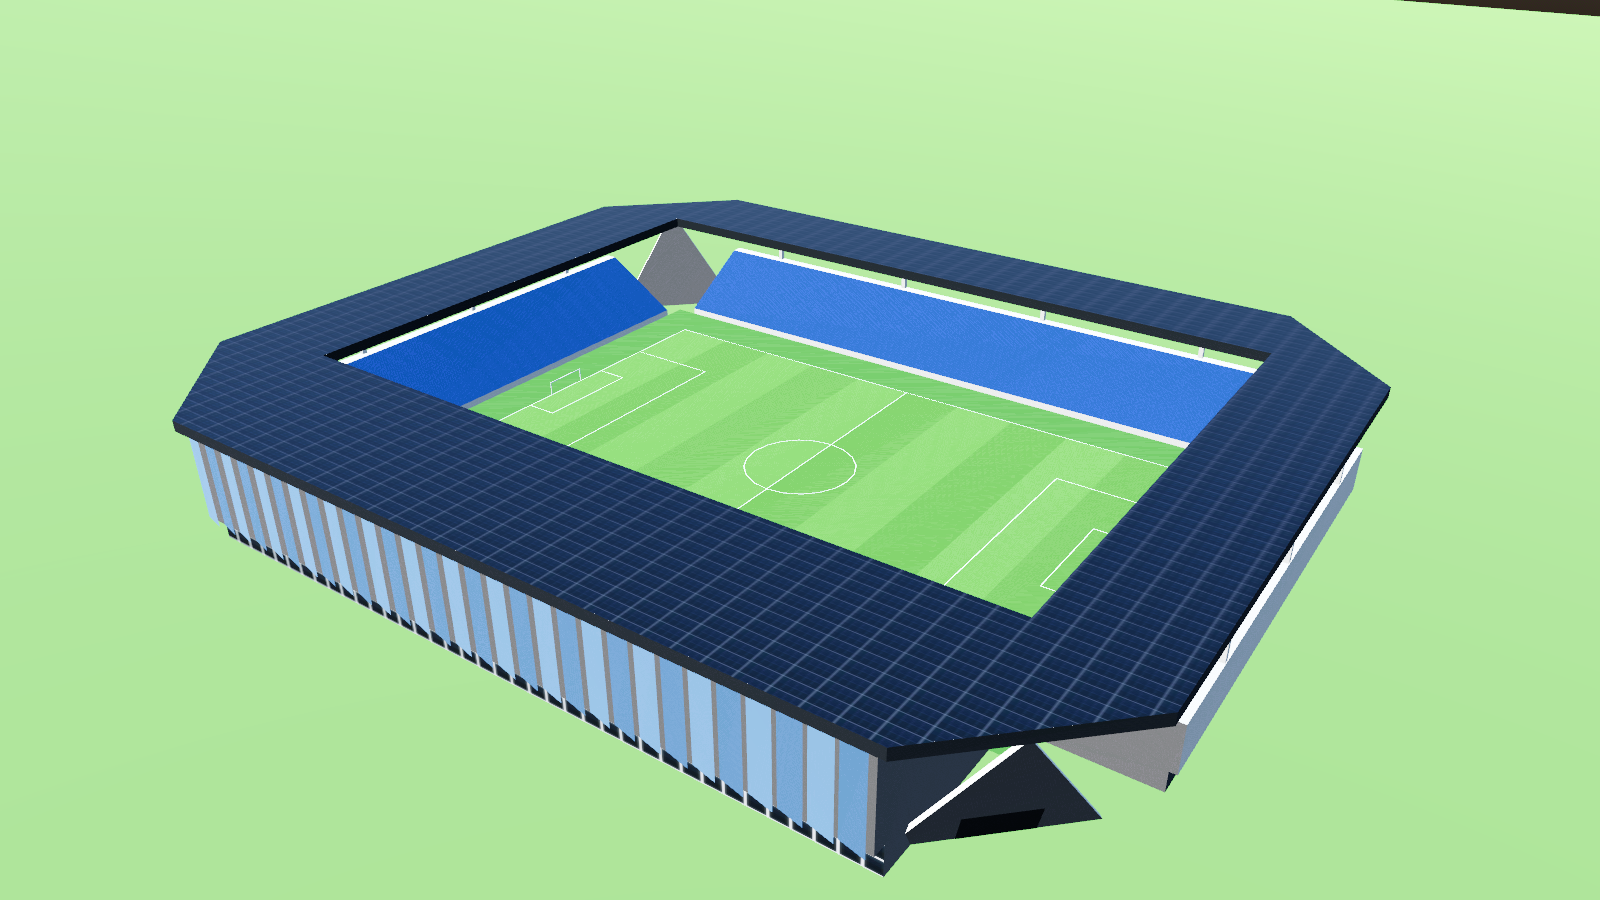
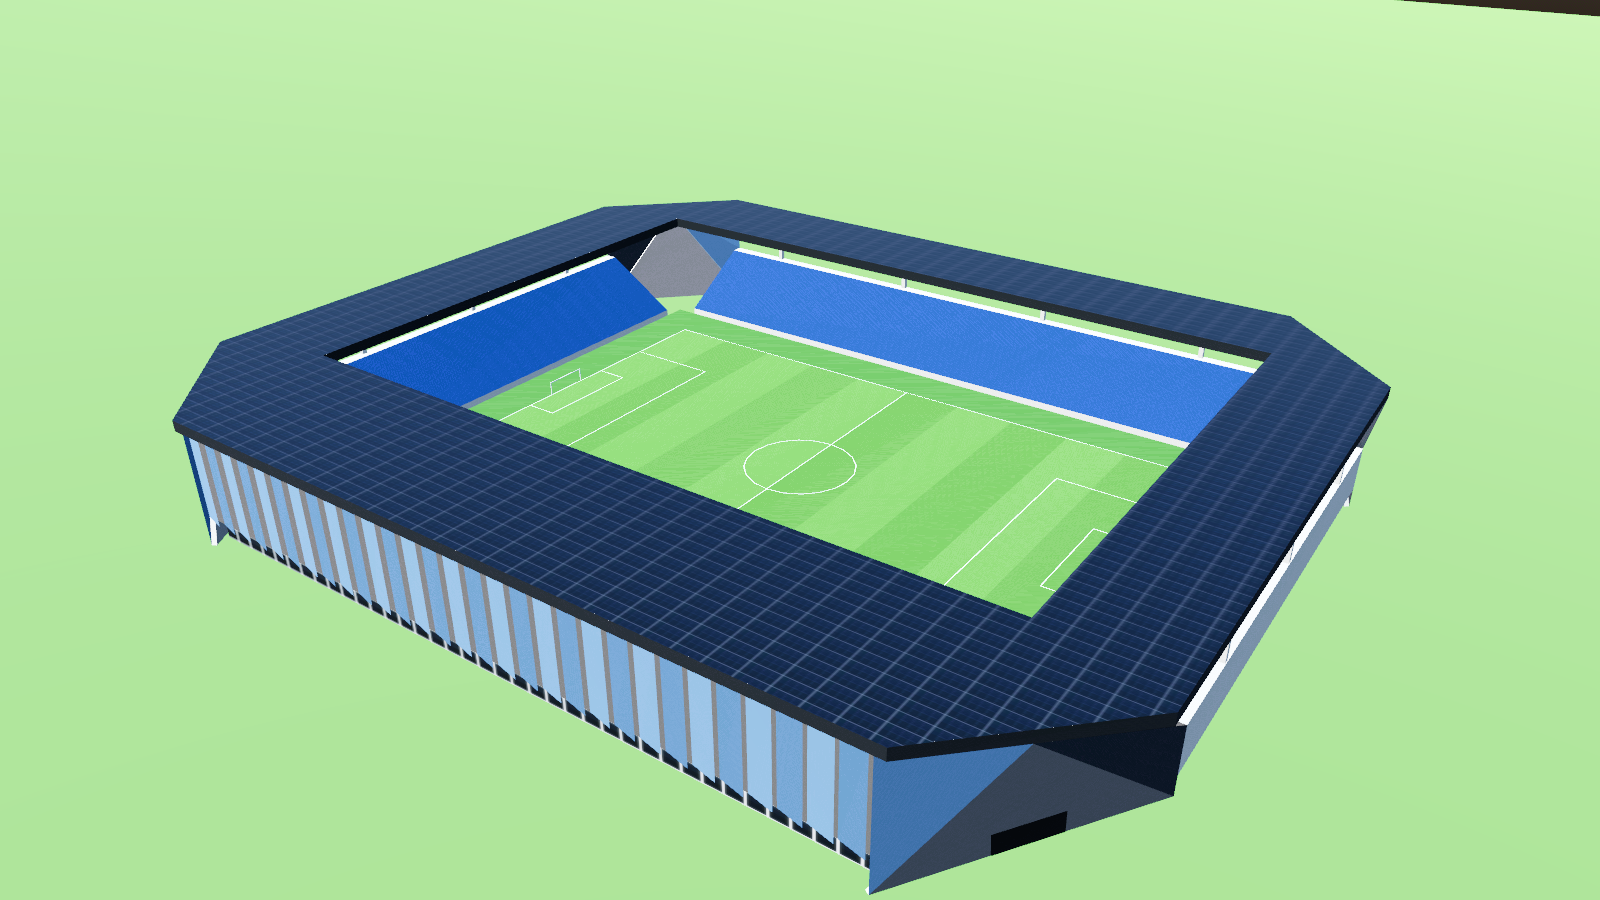
Tuilière : le voile d'angle ferme le pan coupé
Base du voile du bout de la façade au coin de la tribune latérale, sommet au
milieu du pan coupé du toit, triangles restants fermés (vitrage, mur sombre).

diff --git a/tools/blender/batiments/stade_tuiliere.py b/tools/blender/batiments/stade_tuiliere.py
@@ -33,6 +33,7 @@ HX, HY = 56.5, 38.0          # bord de la pelouse (4 m de dégagement)
 
 BETON = "#d6d2c9"
 BETON_SOMBRE = "#6e6d69"
+VOILE = "#8f8d88"            # béton des grands voiles d'angle
 SOUBASSEMENT = "#3c4046"
 SIEGES = "#2459a8"
 SIEGES_OMBRE = "#1d4a8c"
@@ -133,45 +134,50 @@ def toit(b):
                             BANDEAU, (sens * mx, sens * (my + 5), 0))
 
 
-def voile_biais(b, a, c, epaisseur=0.8, recul=7.0, entree=(9.0, 4.2)):
-    """Angle coupé en biais : grand voile triangulaire en béton dans le plan du
-    pan coupé (a -> c, au bord du toit), base au sol en retrait, sommet sous le
-    toit, donc incliné vers l'extérieur. Passage des spectateurs en bas."""
-    ax, ay = a
-    cx, cy = c
-    mx, my = (ax + cx) / 2, (ay + cy) / 2
-    # Normale horizontale vers l'intérieur (vers le centre du stade).
-    tx, ty = cx - ax, cy - ay
+def voile_biais(b, a, c, base_a, base_c, haut_facade_a, haut_lateral_c,
+                epaisseur=0.8, entree=(9.0, 4.2)):
+    """Angle coupé en biais (photo de Gaël) : un grand voile triangulaire en
+    béton ferme l'angle. Sa base va, au sol, du bout de la façade principale
+    (base_a) au coin de la tribune latérale (base_c) ; son sommet touche le
+    milieu du pan coupé du toit (a -> c), donc il penche vers l'extérieur.
+    Les triangles restants entre le voile et le toit sont fermés : vitrage
+    côté façade, mur sombre côté tribune. Entrée des spectateurs en bas."""
+    mx, my = (a[0] + c[0]) / 2, (a[1] + c[1]) / 2
+    sommet = (mx, my, TOIT_BAS)
+    tx, ty = base_c[0] - base_a[0], base_c[1] - base_a[1]
     lg = math.hypot(tx, ty)
     tx, ty = tx / lg, ty / lg
-    nx, ny = -ty, tx
+    nx, ny = -ty, tx                      # normale horizontale vers l'intérieur
     if nx * -mx + ny * -my < 0:
         nx, ny = -nx, -ny
-    retrait = 0.08 * lg   # la base est un peu plus courte que le haut
-    base_a = (ax + tx * retrait + nx * recul, ay + ty * retrait + ny * recul, 0.0)
-    base_c = (cx - tx * retrait + nx * recul, cy - ty * retrait + ny * recul, 0.0)
-    sommet = (mx + nx * 0.6, my + ny * 0.6, TOIT_BAS)
-    # Normale de la face avant : vers le dehors et un peu vers le bas.
-    dehors = (-nx, -ny, -recul / TOIT_BAS)
+    ba = (base_a[0], base_a[1], 0.0)
+    bc = (base_c[0], base_c[1], 0.0)
+    dehors = (-nx, -ny, -0.3)
 
     def decale(p, k):
         return (p[0] + nx * epaisseur * k, p[1] + ny * epaisseur * k, p[2])
 
-    b.face_orientee([base_a, base_c, sommet], BETON_SOMBRE, dehors)
-    b.face_orientee([decale(base_a, 1), decale(base_c, 1), decale(sommet, 1)], BETON_SOMBRE,
+    b.face_orientee([ba, bc, sommet], VOILE, dehors)
+    b.face_orientee([decale(ba, 1), decale(bc, 1), decale(sommet, 1)], VOILE,
                     tuple(-v for v in dehors))
-    for p, q in ((base_a, sommet), (sommet, base_c)):
-        vx, vy = (p[0] + q[0]) / 2 - mx, (p[1] + q[1]) / 2 - my
-        b.face_orientee([p, q, decale(q, 1), decale(p, 1)], BETON, (vx, vy, 0.3))
+    for p, q in ((ba, sommet), (sommet, bc)):
+        vx, vy = (p[0] + q[0]) / 2 - (ba[0] + bc[0]) / 2, (p[1] + q[1]) / 2 - (ba[1] + bc[1]) / 2
+        b.face_orientee([p, q, decale(q, 1), decale(p, 1)], BETON, (vx - nx, vy - ny, 0.3))
+    # Fermetures entre le voile et le toit.
+    a_haut = (a[0], a[1], TOIT_BAS)
+    c_haut = (c[0], c[1], TOIT_BAS)
+    for tri in ([haut_facade_a, a_haut, sommet], [haut_facade_a, sommet, ba]):
+        b.face_orientee(tri, VERRE_B, (-nx, -ny, 0))
+    for tri in ([haut_lateral_c, sommet, c_haut], [haut_lateral_c, bc, sommet]):
+        b.face_orientee(tri, SOUBASSEMENT, (-nx, -ny, 0))
     # Entrée : ouverture sombre en bas, au milieu du voile.
     largeur, hauteur = entree
-    t = hauteur / TOIT_BAS
-    centre = (base_a[0] + base_c[0]) / 2, (base_a[1] + base_c[1]) / 2
+    cx0, cy0 = (ba[0] + bc[0]) / 2, (ba[1] + bc[1]) / 2
     pts = []
     for du, z in ((-1, 0.0), (1, 0.0), (1, hauteur), (-1, hauteur)):
         k = z / TOIT_BAS
-        px = centre[0] + (sommet[0] - centre[0]) * k + tx * du * largeur / 2 - nx * 0.05
-        py = centre[1] + (sommet[1] - centre[1]) * k + ty * du * largeur / 2 - ny * 0.05
+        px = cx0 + (sommet[0] - cx0) * k + tx * du * largeur / 2 - nx * 0.05
+        py = cy0 + (sommet[1] - cy0) * k + ty * du * largeur / 2 - ny * 0.05
         pts.append((px, py, z))
     b.face_orientee(pts, "#25272b", dehors)
 
@@ -238,8 +244,14 @@ def construit(b):
     toit(b)
     # Angles coupés en biais, chacun avec son grand voile de béton incliné.
     for sx in (-1, 1):
-        voile_biais(b, (sx * (XE - BISEAU), YS), (sx * XE, YS + BISEAU))
-        voile_biais(b, (sx * (XE - BISEAU), YN), (sx * XE, YN - BISEAU))
+        # Côté tribune principale (-Y) : façade jusqu'à d = 30,8, tribune
+        # latérale jusqu'à d = 20 (x = ±76,5), arrêtée à y = -HY.
+        voile_biais(b, (sx * (XE - BISEAU), YS), (sx * XE, YS + BISEAU),
+                    (sx * HX, -(HY + 30.8)), (sx * (HX + 20), -HY),
+                    (sx * HX, -(HY + 30.8), TOIT_BAS), (sx * (HX + 20), -HY, 10.0))
+        voile_biais(b, (sx * (XE - BISEAU), YN), (sx * XE, YN - BISEAU),
+                    (sx * HX, HY + 20), (sx * (HX + 20), HY),
+                    (sx * HX, HY + 20, 10.0), (sx * (HX + 20), HY, 10.0))
 
 
 def main():

diff --git a/docs/modeles-blender.md b/docs/modeles-blender.md
@@ -49,7 +49,7 @@ Un bâtiment particulier a son propre script dans `tools/blender/batiments/`, qu
 | Script | Bâtiment | Triangles |
 | --- | --- | --- |
 | `maison_frank.py` | Villa moderniste d'après une maison de Josef Frank (années 1930) : bow-window, tours cylindriques, terrasses | 558 |
-| `stade_tuiliere.py` | Stade de la Tuilière, Lausanne (2020) : 12 544 places, terrain 105 × 68 m, tribune principale à façade de verre à facettes, trois tribunes ouvertes, toit en porte-à-faux couvert de panneaux solaires, angles coupés en biais avec un grand voile de béton incliné et l'entrée des spectateurs. Sources en tête du script. | 486 |
+| `stade_tuiliere.py` | Stade de la Tuilière, Lausanne (2020) : 12 544 places, terrain 105 × 68 m, tribune principale à façade de verre à facettes, trois tribunes ouvertes, toit en porte-à-faux couvert de panneaux solaires, angles coupés en biais avec un grand voile de béton incliné et l'entrée des spectateurs. Sources en tête du script. | 502 |
 
 ![Maison Frank et maison test dans la vitrine](apercu-glb-maison_frank.png)
 
@@ -76,7 +76,7 @@ Un stade par club de la saison 2026-2027 (le Letzigrund est partagé par le FC Z
 | `stade_saint_gall` | Kybunpark, Saint-Gall | FC Saint-Gall | 19 568 | 1 206 |
 | `stade_lucerne` | Swissporarena, Lucerne | FC Lucerne | 17 000 | 1 222 |
 | `stade_sion` | Tourbillon, Sion | FC Sion | 14 850 | 332 |
-| `stade_tuiliere` | Tuilière, Lausanne | FC Lausanne-Sport | 12 544 | 486 |
+| `stade_tuiliere` | Tuilière, Lausanne | FC Lausanne-Sport | 12 544 | 502 |
 | `stade_thoune` | Stockhorn Arena, Thoune | FC Thoune | 10 398 | 1 398 |
 | `stade_lugano` | AIL Arena, Lugano | FC Lugano | 8 793 | 1 316 |
 | `stade_vaduz` | Rheinpark, Vaduz | FC Vaduz | 6 441 | 318 |
